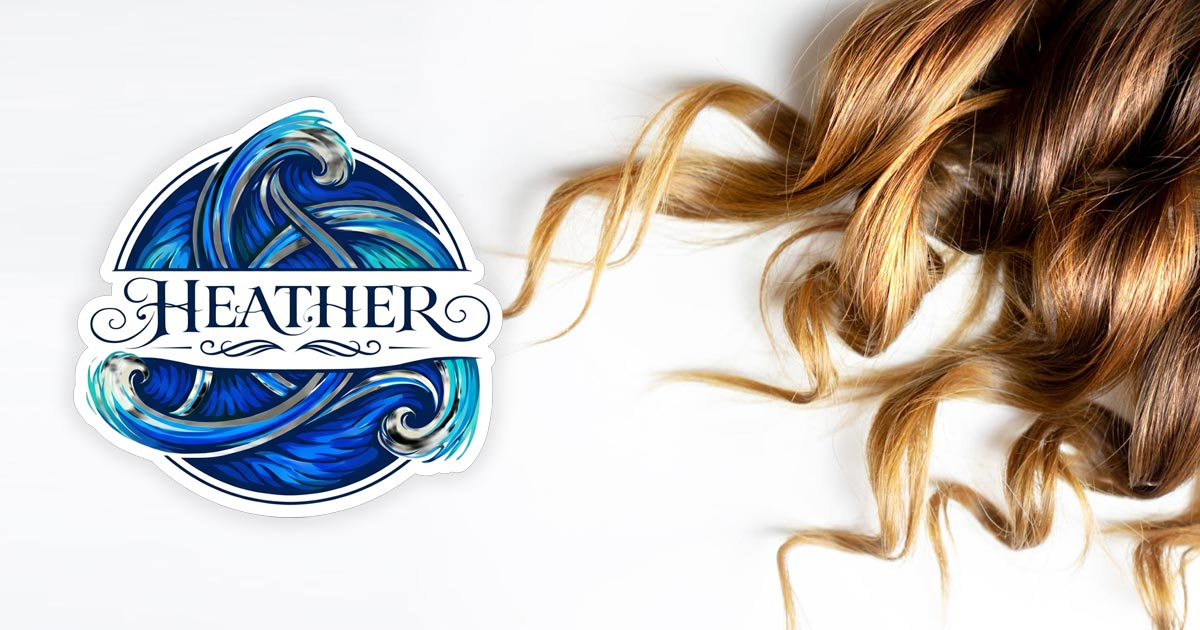
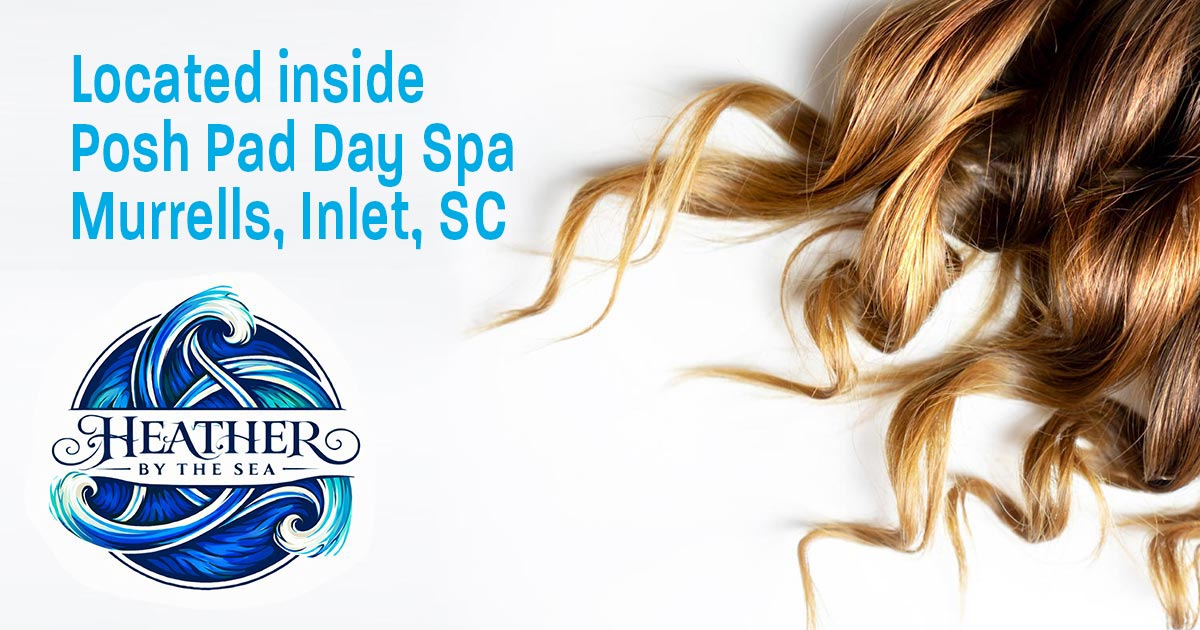
Rebrand location references to Posh Pad Day Spa
The salon now operates inside Posh Pad Day Spa, so the site needs to
reflect the new host location and point visitors to the right place.

- Hero eyebrow: "Salon & Day Spa · Murrells Inlet, SC" → "Located at
  Posh Pad Day Spa, Murrells Inlet, SC"
- Visit section: add "Posh Pad Day Spa" as the first line of the
  Location block
- Visit map: repoint the Google Maps embed to the Posh Pad Day Spa
  place (kept responsive sizing via .visit-map, dropped Google's inline
  width/height/style so mobile layout stays intact)
- Update social-share.jpg (OG/Twitter card) with the new artwork

diff --git a/index.html b/index.html
@@ -326,7 +326,7 @@ p:last-child{margin-bottom:0}
         <div class="hero-overlay"></div>
       </div>
       <div class="hero-content">
-        <p class="eyebrow reveal" data-reveal="up">Salon &amp; Day Spa &middot; Murrells Inlet, SC</p>
+        <p class="eyebrow reveal" data-reveal="up">Located at Posh Pad Day Spa, Murrells Inlet, SC</p>
         <h1 class="display reveal" data-reveal="up" data-delay="80"><span class="line">Heather</span><span class="line italic"><em>by the Sea</em></span></h1>
         <p class="lede reveal" data-reveal="up" data-delay="160">Elegant, fabulous, and entirely you. A premier salon &amp; day spa just four minutes from Inlet Square Mall — committed to top-of-the-line products and unhurried care.</p>
         <div class="cta-row reveal" data-reveal="up" data-delay="240">
@@ -407,7 +407,7 @@ p:last-child{margin-bottom:0}
         <div class="visit-info reveal" data-reveal="up">
           <p class="eyebrow">Come see us</p>
           <h2>Visit the salon</h2>
-          <div class="visit-block"><h3>Location</h3><p>11534 Frontage Rd<br/>Murrells Inlet, SC 29576<br/><span class="muted">Located inside The Posh Pad Day Spa</span></p></div>
+          <div class="visit-block"><h3>Location</h3><p>Posh Pad Day Spa<br/>11534 Frontage Rd<br/>Murrells Inlet, SC 29576<br/><span class="muted">Located inside The Posh Pad Day Spa</span></p></div>
           <div class="visit-block"><h3>Hours</h3><p>Mon – Fri &nbsp; 9:00 AM – 5:00 PM<br/><span class="muted">After hours by appointment</span></p></div>
           <div class="visit-block"><h3>Phone</h3><p><a href="tel:+15403300900">(540) 330-0900</a><br/><span class="muted">Call or text</span></p></div>
           <div class="visit-cta">
@@ -415,7 +415,7 @@ p:last-child{margin-bottom:0}
             <a class="btn btn-ghost" href="https://share.google/n4j43dQzt4aFvjEiz" target="_blank" rel="noopener">Get Directions</a>
           </div>
         </div>
-        <div class="visit-map reveal" data-reveal="left"><iframe title="Heather by the Sea on Google Maps" src="https://www.google.com/maps/embed?pb=!1m18!1m12!1m3!1d3323.3354872826435!2d-79.02408249999999!3d33.596598799999995!2m3!1f0!2f0!3f0!3m2!1i1024!2i768!4f13.1!3m3!1m2!1s0x89003f312b6c464b%3A0xb1eaffcc097e3d6c!2sHeather%20by%20the%20sea%20LLC!5e0!3m2!1sen!2sus!4v1777471891359!5m2!1sen!2sus" loading="lazy" referrerpolicy="no-referrer-when-downgrade" allowfullscreen></iframe></div>
+        <div class="visit-map reveal" data-reveal="left"><iframe title="Heather by the Sea on Google Maps" src="https://www.google.com/maps/embed?pb=!1m18!1m12!1m3!1d3323.3354872826435!2d-79.02408249999999!3d33.596598799999995!2m3!1f0!2f0!3f0!3m2!1i1024!2i768!4f13.1!3m3!1m2!1s0x89003f7f8d560881%3A0x4fabc2b7640ce7e0!2sPosh%20Pad%20Day%20Spa!5e0!3m2!1sen!2sus!4v1780239114125!5m2!1sen!2sus" loading="lazy" referrerpolicy="no-referrer-when-downgrade" allowfullscreen></iframe></div>
       </div>
     </section>
 
